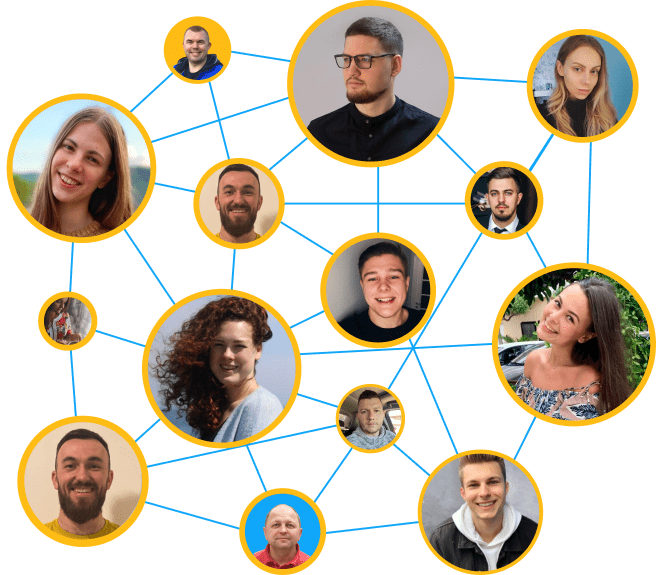
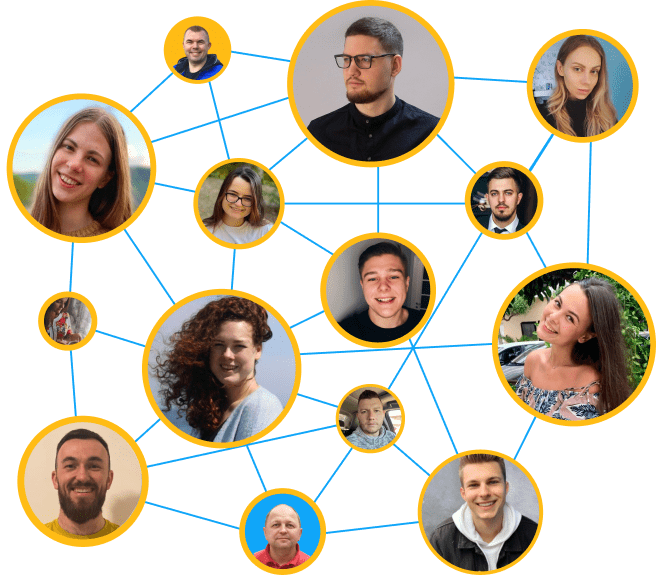
fix: update team section

Changed region(s): [[0.3049, 0.2661, 0.4268, 0.4435], [0.0305, 0.2957, 0.061, 0.3548], [0.3049, 0.1183, 0.3354, 0.1478]]

diff --git a/components/OurTeam/index.jsx b/components/OurTeam/index.jsx
@@ -179,7 +179,7 @@ export default function OurTeam() {
       active: true,
     },
     {
-      photo: "images/JuliaN.png",
+      photo: "images/julia-nikitenko.png",
       name: trans("Julia_Nikitenko"),
       profession: trans("Julia_Nikitenko_spec"),
       telegram: "https://t-do.ru/@juliya_nikitenko",
@@ -199,13 +199,13 @@ export default function OurTeam() {
       active: false,
     },
     {
-      photo: "images/DianaSkorniakova.png",
+      photo: "images/diana-skorniakova.png",
       name: trans("Diana_Skorniakova"),
       profession: trans("Diana_Skorniakova_spec"),
       telegram: "https://t-do.ru/@Birdy_off_the_lens",
       instagram: "https://instagram.com/ce_prosto_di?utm_medium=copy_link",
       facebook: "https://www.facebook.com/diana.skorniakova",
-      period: `${trans("team_period")} 2022`,
+      period: `${trans("team_period")} 2022-2022`,
       active: false,
     },
   ];

diff --git a/components/CurrentProjects/index.jsx b/components/CurrentProjects/index.jsx
@@ -1,4 +1,4 @@
-import React, { useCallback, useState } from "react";
+import React, { useCallback, useEffect, useState } from "react";
 import styles from "./CurrentProjects.module.scss";
 import Slider from "react-slick";
 import ButtonBlueBorder from "../ButtonBlueBorder";
@@ -90,6 +90,10 @@ export default function CurrentProjects({ projectsRef }) {
       },
     ],
   };
+
+  useEffect(() => {
+    projectsRef.current.slickGoTo(1)
+  }, [])
 
   return (
     <div id='currentProjects' >
